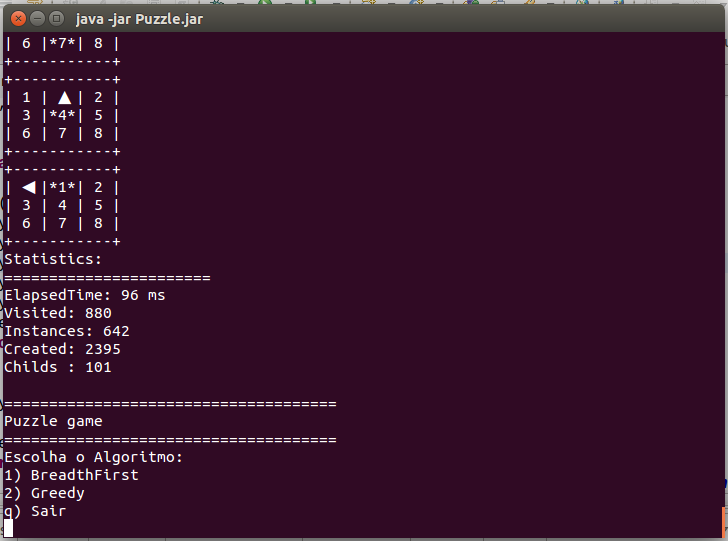
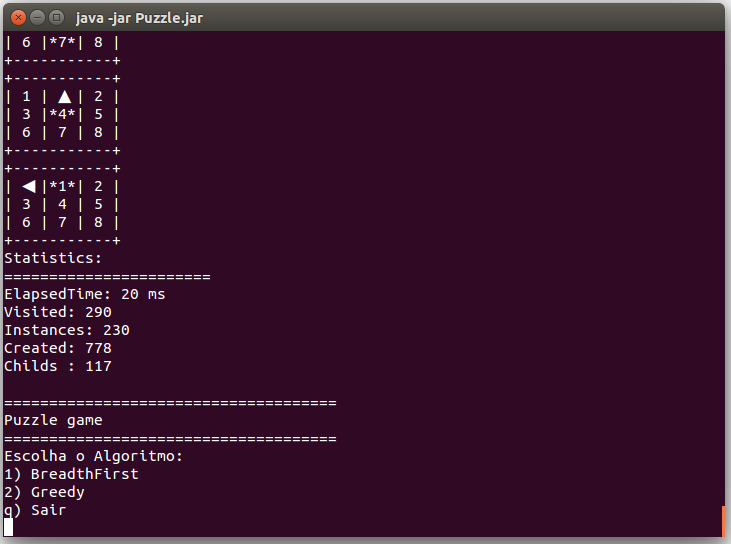
add menu options

diff --git a/src/br/com/criativasoft/ia/puzzle/Main.java b/src/br/com/criativasoft/ia/puzzle/Main.java
@@ -19,9 +19,9 @@ import br.com.criativasoft.ia.puzzle.model.BoardHeuristicA;
 public class Main {
          
     static int[] initial = {
-            8, 4, 0, 
-            5, 1, 7, 
-            6, 2, 3
+            7, 2, 4, 
+            5, 0, 6, 
+            8, 3, 1
     };
 
     static int[] expected = {
